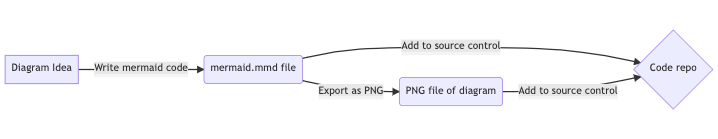
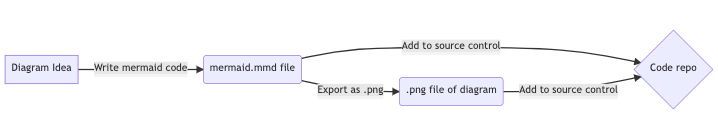
small fix to capitalization of PNG -> png
To be consistent with the rest of the text the reference to a PNG file is changed to png

diff --git a/docs/documentation/tools/languages.md b/docs/documentation/tools/languages.md
@@ -33,7 +33,7 @@ This is an example of a Mermaid flowchart diagram written as code.
 graph LR
     A[Diagram Idea] -->|Write mermaid code| B(mermaid.mmd file)
     B -->|Add to source control| C{Code repo}
-    B -->|Export as PNG| G(PNG file of diagram)
+    B -->|Export as .png| G(.png file of diagram)
     G -->|Add to source control| C
 ```
 
